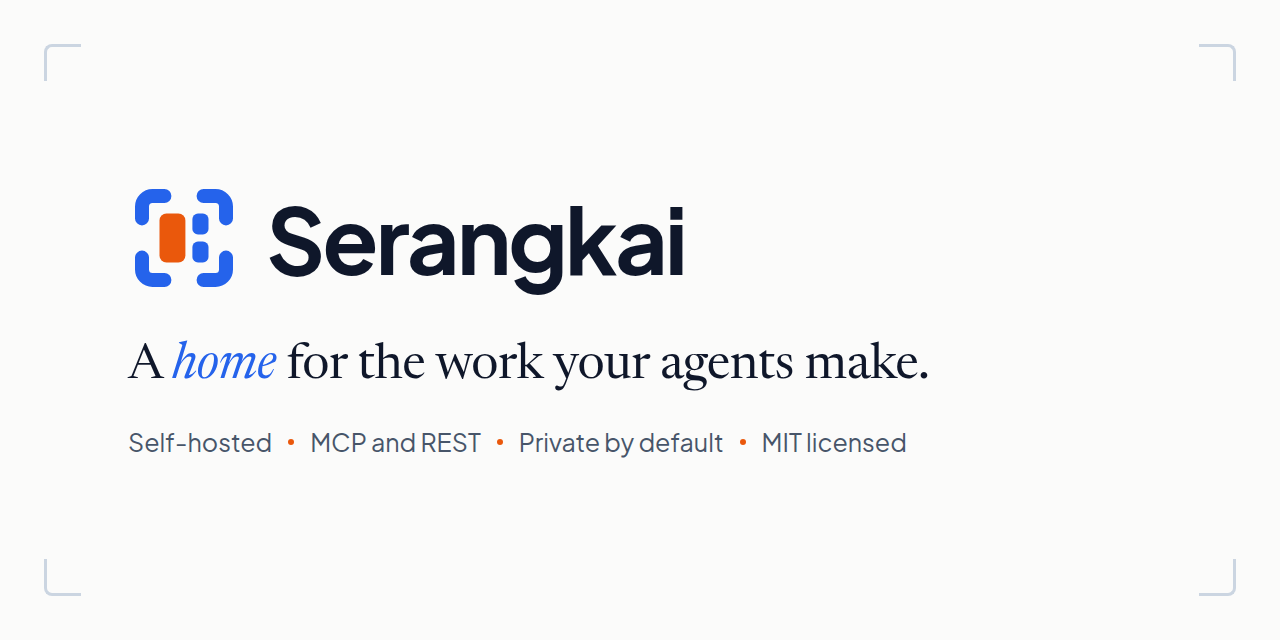
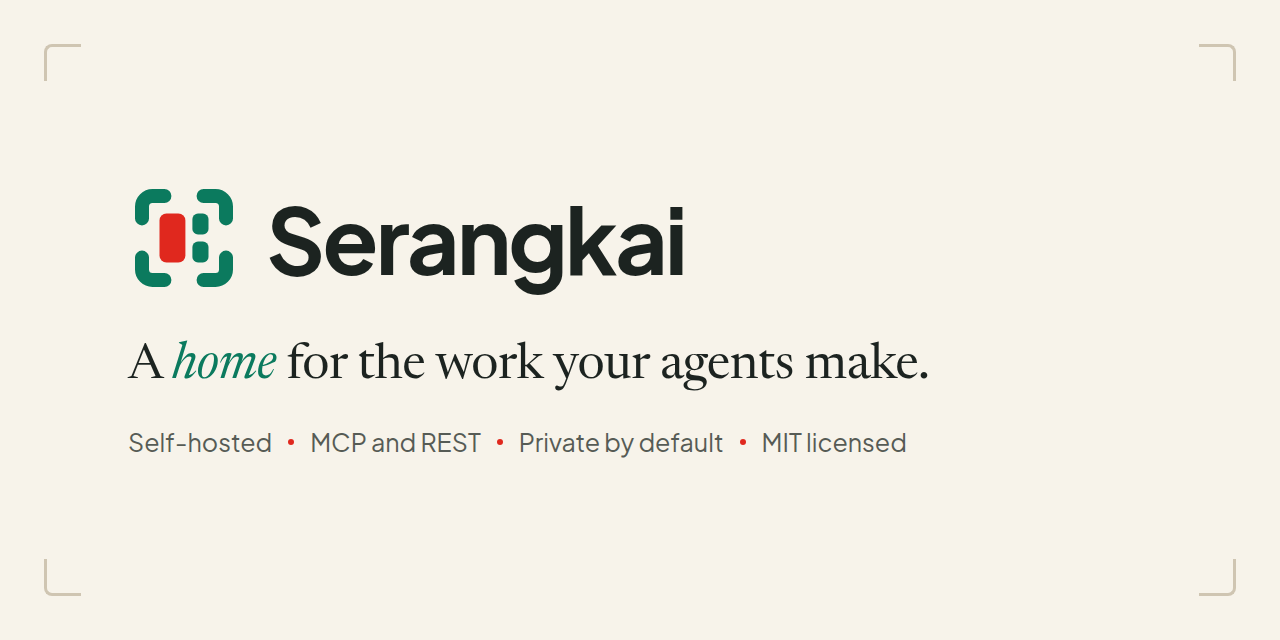
feat(theme): follow the app's porcelain palette
- jade and scarlet seeds over ivory surfaces, light and dark
- logo, favicon, touch icon, and og image recoloured
- landing shadows warmed to the porcelain ink

diff --git a/app/assets/css/brand.css b/app/assets/css/brand.css
@@ -1,6 +1,6 @@
 /* Serangkai's default app theme, shared by the landing page and the docs.
-   Colors come from `selaras.theme.colors` in nuxt.config.ts; this file adds
-   the app's UI typeface. Keep both in step with the app's nuxt.config.ts and
+   Brand colors come from `selaras.theme.colors` in nuxt.config.ts; this file
+   adds the porcelain surfaces, text and borders, and the app's UI typeface. Keep both in step with the app's nuxt.config.ts and
    app/assets/css/main.css on master. */
 @font-face {
   font-family: 'Plus Jakarta Sans';
@@ -12,4 +12,36 @@
 
 html {
   font-family: 'Plus Jakarta Sans', ui-sans-serif, system-ui, sans-serif;
+}
+
+:root {
+  --selaras-surface-canvas: #f7f3ea;
+  --selaras-surface-default: #fdfbf6;
+  --selaras-surface-elevated: #efe9dd;
+  --selaras-surface-inverted: #1c2320;
+  --selaras-text-default: #1c2320;
+  --selaras-text-muted: #61665f;
+  --selaras-text-inverted: #fdfbf6;
+  --selaras-border-default: #e1d9c9;
+  --selaras-border-muted: #ece5d8;
+  --selaras-border-hover: #cfc5b2;
+  --selaras-color-neutral-subtle: color-mix(in oklab, var(--selaras-resolved-surface-elevated) 92%, var(--selaras-resolved-text-default));
+  --selaras-color-neutral-subtle-hover: color-mix(in oklab, var(--selaras-resolved-surface-elevated) 86%, var(--selaras-resolved-text-default));
+  --selaras-color-neutral-subtle-pressed: color-mix(in oklab, var(--selaras-resolved-surface-elevated) 80%, var(--selaras-resolved-text-default));
+}
+
+:root.dark {
+  --selaras-surface-canvas: #0f1312;
+  --selaras-surface-default: #151a18;
+  --selaras-surface-elevated: #1b211f;
+  --selaras-surface-inverted: #f2eee4;
+  --selaras-text-default: #f2eee4;
+  --selaras-text-muted: #a2a7a1;
+  --selaras-text-inverted: #151a18;
+  --selaras-border-default: #29302d;
+  --selaras-border-muted: #1f2523;
+  --selaras-border-hover: #3a423e;
+  --selaras-color-neutral-subtle: color-mix(in oklab, var(--selaras-resolved-surface-elevated) 88%, var(--selaras-resolved-text-default));
+  --selaras-color-neutral-subtle-hover: color-mix(in oklab, var(--selaras-resolved-surface-elevated) 84%, var(--selaras-resolved-text-default));
+  --selaras-color-neutral-subtle-pressed: color-mix(in oklab, var(--selaras-resolved-surface-elevated) 80%, var(--selaras-resolved-text-default));
 }

diff --git a/app/pages/index.vue b/app/pages/index.vue
@@ -102,8 +102,8 @@ onBeforeUnmount(() => observer?.disconnect())
   --b-table: var(--b-raised);
   --b-card: var(--b-paper);
   --b-mark: color-mix(in oklab, var(--b-muted) 55%, transparent);
-  --b-shadow-loose: 0 1px 1px rgb(20 20 30 / 0.04), 0 18px 40px -12px rgb(20 20 40 / 0.22);
-  --b-shadow-set: 0 1px 1px rgb(20 20 30 / 0.04), 0 2px 6px -2px rgb(20 20 40 / 0.08);
+  --b-shadow-loose: 0 1px 1px rgb(28 35 32 / 0.04), 0 18px 40px -12px rgb(28 35 32 / 0.2);
+  --b-shadow-set: 0 1px 1px rgb(28 35 32 / 0.04), 0 2px 6px -2px rgb(28 35 32 / 0.08);
 
   --b-serif: 'Newsreader', 'Iowan Old Style', 'Charter', 'Georgia', serif;
   --b-mono: 'IBM Plex Mono', ui-monospace, 'SFMono-Regular', 'Menlo', 'Consolas', monospace;

diff --git a/nuxt.config.ts b/nuxt.config.ts
@@ -1,9 +1,11 @@
 import { defineColorFromSeed } from '@sewadah/selaras/theme'
 
-// The app's default theme (see nuxt.config.ts on master). Change both together.
+// The app's default theme, "porcelain": jade lacquer and a scarlet signal on
+// ivory. Mirrors nuxt.config.ts on master; change both together.
+const surfaces = { light: '#FDFBF6', dark: '#151A18' }
 const brand = {
-  primary: defineColorFromSeed('#2563EB'),
-  accent: defineColorFromSeed('#EA580C'),
+  primary: defineColorFromSeed('#0B7A5E', { surfaces }),
+  accent: defineColorFromSeed('#E0281E', { surfaces }),
 }
 
 export default defineNuxtConfig({
